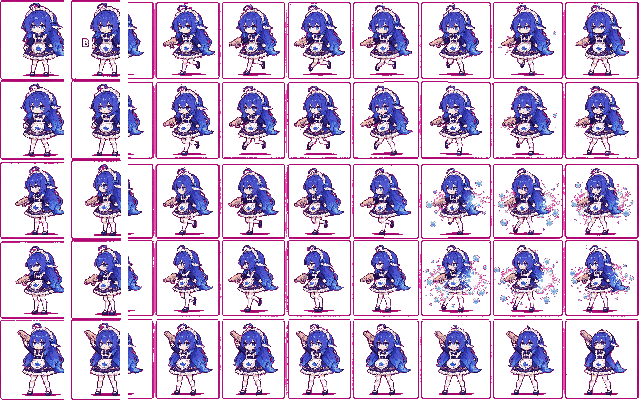
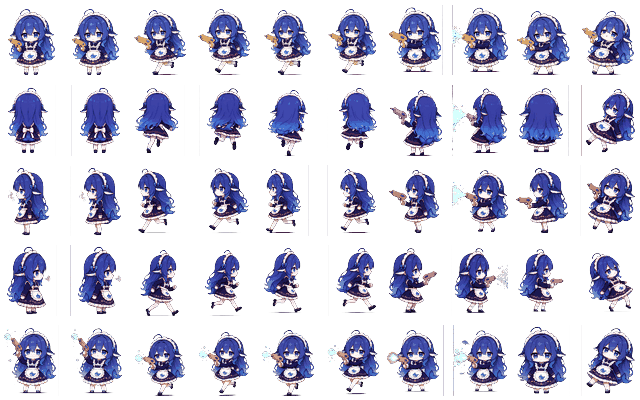
feat(art): 接入豆包 v5 五行角色图集（正面/背面/左右/技能），替换 v4 整图
- 09-角色正面行 + 10-角色其余四行 共 15 张 640x80 样张并入整合包
- 01-角色图集/char_*.png 由五行按 front/back/left/right/skill 重新拼成 640x400
- art-normalize.py 移除行补丁逻辑（整图已是 v5），保留抠网格线/地线/脚底对齐/90 分位缩放
- 三主角图集均为 5 行满帧、无粉色分隔线；README 更新交付与重拼接流程

diff --git a/scripts/art-normalize.py b/scripts/art-normalize.py
@@ -41,14 +41,6 @@ SHEETS = {
     "boss_king.png": dict(cols=6, rows=4, cell=(96, 112), fit=(90, 104), baseline=107),
 }
 
-# 新规格 v5 的单行样张：出图先只出「正面行」确认，放在 09-角色正面行样张/。
-# 存在时用样张覆盖图集的第 1 行（正面/朝下），其余行仍用原图集，逐行升级不打断游戏。
-ROW_PATCHES = {
-    "char_mutsumi.png": "char_mutsumi_row1_front.png",
-    "char_murasame.png": "char_murasame_row1_front.png",
-    "char_fish.png": "char_fish_row1_front.png",
-}
-
 # 单图资源：原样复制（尺寸必须与 docs/07 规格一致，不一致会告警）
 SINGLES = {
     "keyart_title.png": (1920, 1080),
@@ -437,27 +429,11 @@ def normalize_sheet(name: str, cols: int, rows: int, cell_wh, fit_wh, baseline: 
     strip_grid_lines(src_img)
     strip_cell_borders(src_img, cols, rows, cw, ch)
 
-    # 新规格 v5 的「正面行」样张：有就用它覆盖第 1 行（只做轻度清理，样张本身没有格线）
-    patch_img = None
-    patch_name = ROW_PATCHES.get(name)
-    if patch_name:
-        try:
-            patch_img = Image.open(find(patch_name)).convert("RGBA")
-        except SystemExit:
-            patch_img = None
-        if patch_img is not None and patch_img.size[1] != ch:
-            print(f"  !! {patch_name} 高度 {patch_img.size[1]} != 格子高 {ch}，忽略该行样张")
-            patch_img = None
-
     frames = [[None] * cols for _ in range(rows)]
     dims: list[tuple[int, int]] = []
-    patch_dims: list[tuple[int, int]] = []
     for r in range(rows):
         for c in range(cols):
-            is_patch = r == 0 and patch_img is not None and c < cols
-            if is_patch:
-                res = clean_frame_cell(patch_img, c, 0, cw, ch)
-            elif mode == "window":
+            if mode == "window":
                 res = clean_frame_window(src_img, c, r, cw, ch)
             else:
                 res = clean_cell(src_img, c, r, cw, ch)
@@ -465,7 +441,7 @@ def normalize_sheet(name: str, cols: int, rows: int, cell_wh, fit_wh, baseline: 
                 continue
             fimg, foot_x = res
             frames[r][c] = (fimg, foot_x)
-            (patch_dims if is_patch else dims).append((fimg.width, fimg.height))
+            dims.append((fimg.width, fimg.height))
 
     def p90_dim(items: list[tuple[int, int]]) -> tuple[int, int]:
         if not items:
@@ -479,16 +455,6 @@ def normalize_sheet(name: str, cols: int, rows: int, cell_wh, fit_wh, baseline: 
     # 用 90 分位而不是最大值算缩放：个别帧多抓到一条刀光/残影不会把整个角色缩小
     ref_w, ref_h = p90_dim(dims)
     scale = min(1.0, fit_w / ref_w, fit_h / ref_h)
-
-    # 行样张和旧行是两批出图，身高可能差 10~20%：按参考高度把样张行单独缩放到同一身高
-    row_scale = scale
-    if patch_dims and dims:
-        pw, ph = p90_dim(patch_dims)
-        if ph > 1:
-            row_scale = scale * (ref_h / ph)
-            max_w_patch = max(d[0] for d in patch_dims)
-            # 放大后别顶出格子/内容框
-            row_scale = min(row_scale, (cw - 2) / max_w_patch, fit_w / max_w_patch)
     out = Image.new("RGBA", expect, (0, 0, 0, 0))
     for r in range(rows):
         for c in range(cols):
@@ -496,7 +462,7 @@ def normalize_sheet(name: str, cols: int, rows: int, cell_wh, fit_wh, baseline: 
             if item is None:
                 continue
             fimg, foot_x = item
-            used_scale = row_scale if (r == 0 and patch_dims) else scale
+            used_scale = scale
             tw = max(1, round(fimg.width * used_scale))
             th = max(1, round(fimg.height * used_scale))
             fimg = fimg.resize((tw, th), Image.NEAREST)

diff --git a/README.md b/README.md
@@ -89,7 +89,9 @@ npm run art:check    # 校验 37 张图尺寸/图集等分（只读 PNG 头，CI
 ```
 替换原画：把同名 PNG 覆盖进 `assets/art_pack/美术资源整合包/` 对应子目录 → 重新跑 `npm run art`。哥布林小怪没有原画，仍用程序化图集。
 
-单行升级：新规格 v5 的角色样张放在 `assets/art_pack/美术资源整合包/09-角色正面行样张/`（`char_<角色>_row1_front.png`，640×80 = 10 格 × 64×80）。归一化脚本会自动用它覆盖图集第 1 行（其余行保持旧图），并按参考身高把这一行缩放到与其他行同高；四行补齐后直接覆盖整张 640×400 图集即可，脚本无需改。
+单行升级：新规格 v5 的角色样张按行交付——`09-角色正面行样张/`（`char_<角色>_row1_front.png`）与 `10-角色其余四行/`（`row2_back / row3_left / row4_right / row5_skill`），每张 640×80 = 10 格 × 64×80。`01-角色图集/char_<角色>.png` 已由这五行按 front/back/left/right/skill 顺序拼成 640×400，游戏读到的就是 v5 新图；重出某一行时替换对应 640×80 文件后重新拼图（脚本按文件名顺序可复现），再跑 `npm run art`。
+
+> 已知小瑕疵：`char_fish.png` 有 3~4 帧边缘残留一小块水花/刀光残片（出图时特效越过格子），不影响操作；重出该行即可消失。
 
 **音频**：`assets/audio/` 里的 5 首 BGM（title / battle / boss / shop / victory）和 18 个音效全部由 `scripts/make-audio.mjs` 离线合成（零依赖、固定种子、逐字节可复现），运行时按曲目切歌、暂停压音量，缺文件自动回退旧程序化音效。
 ```bash
